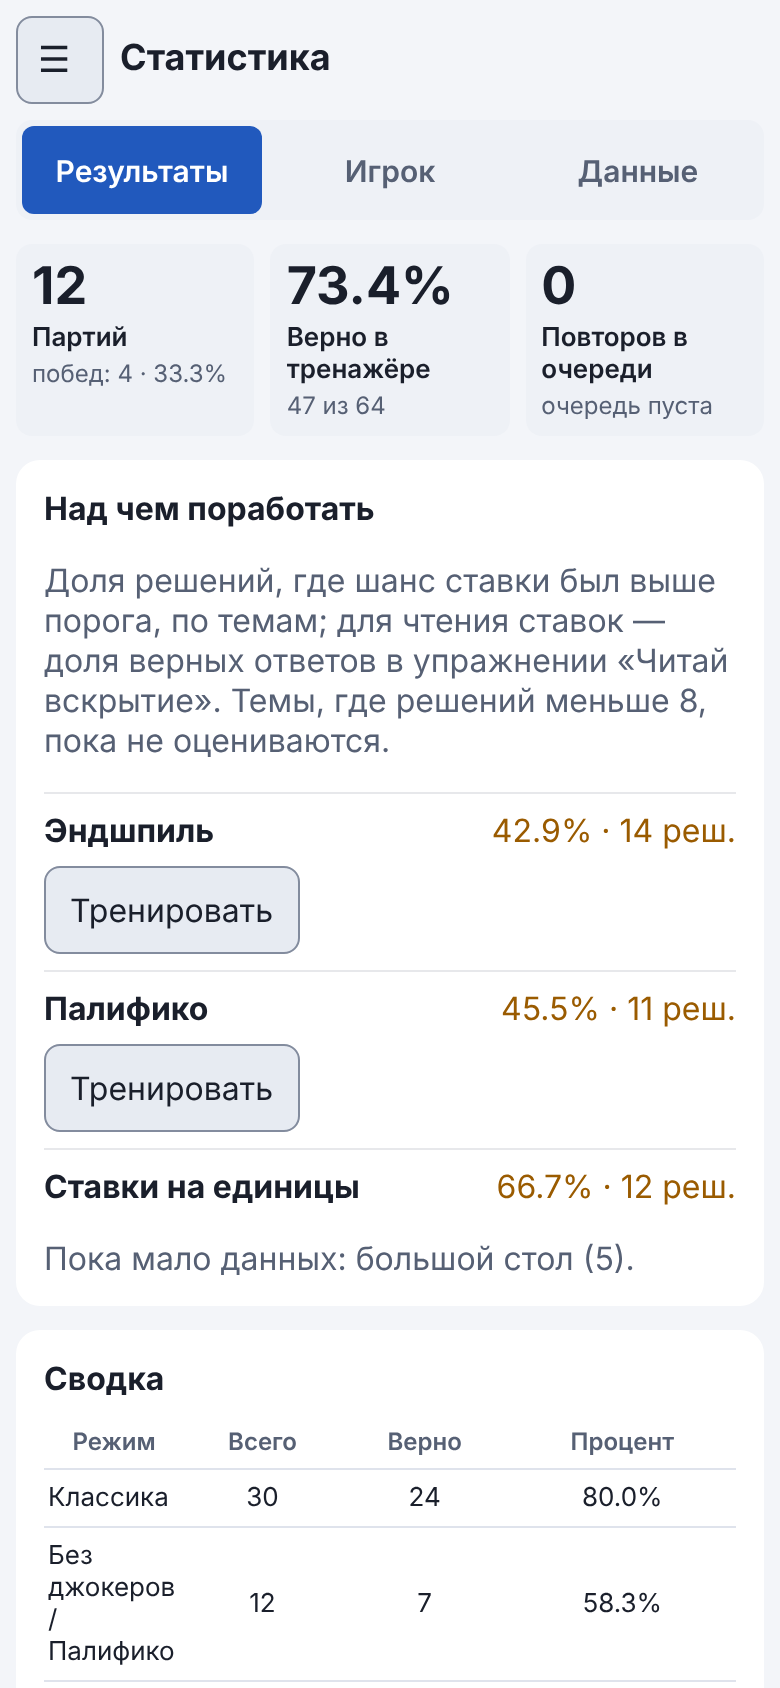
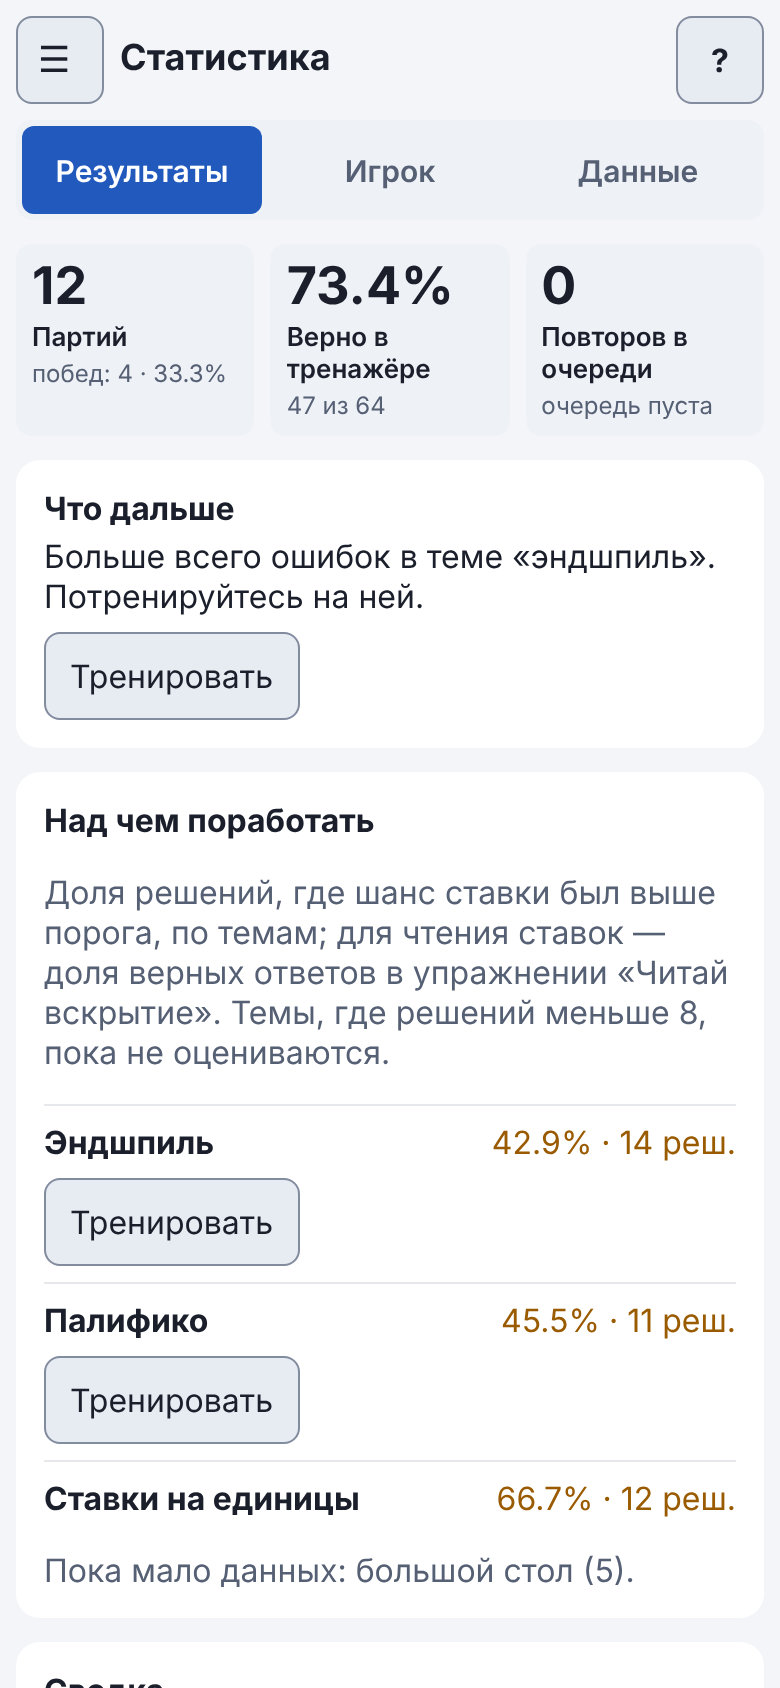
W2-07: блок «Что дальше» в «Статистике» с одной рекомендацией

diff --git a/tests/next_step.test.js b/tests/next_step.test.js
@@ -1,0 +1,72 @@
+import { describe, it } from 'node:test';
+import assert from 'node:assert/strict';
+import { readFileSync } from 'node:fs';
+import { nextStep, NEXT_TITLE } from '../src/next_step.js';
+import { TRAIN_MODE } from '../src/weak_spots.js';
+
+const root = new URL('../', import.meta.url);
+const BANNED = /обманщик|врёт|блефует/i;
+const games = (n) => ({ totalGames: n, totalWins: 0, n: 0, good: 0, byTag: {} });
+const item = { mode: 'classic', n: 12, h: [1], f: 3, q: 4, streak: 0 };
+
+describe('«Что дальше»: одна рекомендация', () => {
+  it('очередь повторов важнее всего', () => {
+    const r = nextStep({ stats: { ...games(9), byTag: { endgame: { n: 10, good: 2 } } }, games: [], queue: [item, item] });
+    assert.equal(r.id, 'queue');
+    assert.match(r.text, /ситуаций: 2/);
+    assert.deepEqual(r.action, { label: 'Открыть Тренажёр', tab: 'train' });
+  });
+  it('слабая тема с режимом: кнопка «Тренировать» ведёт в этот режим', () => {
+    const r = nextStep({ stats: { ...games(9), byTag: { endgame: { n: 10, good: 2 } } }, games: [], queue: [] });
+    assert.equal(r.id, 'weak');
+    assert.match(r.text, /«.+»/);
+    assert.deepEqual(r.action, { label: 'Тренировать', train: TRAIN_MODE.endgame });
+  });
+  it('из нескольких слабых тем берётся самая слабая', () => {
+    const r = nextStep({ stats: { ...games(9), byTag: { endgame: { n: 10, good: 6 }, lastDie: { n: 10, good: 1 } } }, queue: [] });
+    assert.equal(r.action.train, TRAIN_MODE.lastDie);
+  });
+  it('мало партий: сколько ещё нужно до процента побед', () => {
+    const r = nextStep({ stats: games(2), games: [], queue: [] });
+    assert.equal(r.id, 'games');
+    assert.match(r.text, /Сыграйте ещё партий: 3/);
+    assert.deepEqual(r.action, { label: 'Играть', tab: 'game' });
+    assert.match(nextStep({ stats: games(0), queue: [] }).text, /Сыграйте партию/);
+  });
+  it('партий достаточно, «Читай вскрытие» не пробовали — предлагаем упражнения', () => {
+    const r = nextStep({ stats: games(6), queue: [] });
+    assert.equal(r.id, 'read');
+    assert.deepEqual(r.action, { label: 'Открыть Упражнения', tab: 'drill' });
+  });
+  it('всё пробовано, слабых мест нет — сыграть партию', () => {
+    const r = nextStep({ stats: { ...games(6), byTag: { read: { n: 10, good: 10 } } }, queue: [] });
+    assert.equal(r.id, 'play');
+    assert.equal(r.action.tab, 'game');
+  });
+  it('мусор вместо данных не ломает: как у новичка', () => {
+    for (const v of [undefined, {}, { stats: null }, { stats: 5, games: 'x', queue: 7 }]) {
+      const r = nextStep(v);
+      assert.equal(r.id, 'games');
+      assert.ok(r.text && r.action.label);
+    }
+  });
+  it('тексты без запрещённых слов, у действия либо вкладка, либо режим', () => {
+    const cases = [
+      { stats: games(0) }, { stats: games(2) }, { stats: games(6) },
+      { stats: { ...games(6), byTag: { read: { n: 9, good: 9 } } } },
+      { stats: { ...games(9), byTag: { ladder: { n: 10, good: 3 } } } }, { queue: [item] },
+    ];
+    for (const c of cases) {
+      const r = nextStep(c);
+      assert.doesNotMatch(r.text, BANNED);
+      assert.ok(Boolean(r.action.tab) !== Boolean(r.action.train), r.id);
+    }
+    assert.equal(NEXT_TITLE, 'Что дальше');
+  });
+  it('в index.html есть карточка перед «Над чем поработать», руководство описывает блок', () => {
+    const html = readFileSync(new URL('index.html', root), 'utf8');
+    assert.ok(html.indexOf('id="stNext"') > 0 && html.indexOf('id="stNext"') < html.indexOf('id="stWeak"'));
+    const g = readFileSync(new URL('docs/guide/stats.html', root), 'utf8').replace(/<[^>]+>/g, ' ');
+    assert.ok(g.includes('«Что дальше»'));
+  });
+});

diff --git a/src/next_step.js b/src/next_step.js
@@ -1,0 +1,60 @@
+// src/next_step.js — блок «Что дальше» в «Статистике»: одна рекомендация по уже накопленным данным ← чистая логика (без DOM).
+// Новых данных не собирает: берёт профиль, историю партий и очередь повторов.
+
+import { weakSpots } from './weak_spots.js';
+import { MIN_GAMES_FOR_RATE, summarize } from './stats_summary.js';
+
+export const NEXT_TITLE = 'Что дальше';
+
+/**
+ * Рекомендация одна, по порядку важности:
+ *  1. есть очередь повторов — решить её в Тренажёре;
+ *  2. есть слабая тема — потренировать её (если у темы есть режим) или открыть Тренажёр;
+ *  3. сыграно меньше партий, чем нужно для процента побед — сыграть ещё;
+ *  4. «Читай вскрытие» ещё не пробовали — открыть упражнения;
+ *  5. иначе — сыграть партию.
+ * @param {{stats?: object, games?: any[], queue?: any[]}} src
+ * @returns {{id: string, text: string, action: {label: string, tab?: string, train?: string}}}
+ */
+export function nextStep({ stats, games, queue } = {}) {
+  const sum = summarize({ stats, games, queue });
+  if (sum.queue > 0) {
+    return {
+      id: 'queue',
+      text: `В очереди повторов ситуаций: ${sum.queue}. Решите их в Тренажёре: каждая уйдёт после двух успешных повторов подряд.`,
+      action: { label: 'Открыть Тренажёр', tab: 'train' },
+    };
+  }
+  const { weak } = weakSpots(stats?.byTag);
+  if (weak.length) {
+    const w = weak[0];
+    return {
+      id: 'weak',
+      text: `Больше всего ошибок в теме «${w.label}». Потренируйтесь на ней.`,
+      action: w.mode ? { label: 'Тренировать', train: w.mode } : { label: 'Открыть Тренажёр', tab: 'train' },
+    };
+  }
+  if (sum.games.total < MIN_GAMES_FOR_RATE) {
+    const left = MIN_GAMES_FOR_RATE - sum.games.total;
+    return {
+      id: 'games',
+      text: sum.games.total === 0
+        ? `Сыграйте партию: после ${MIN_GAMES_FOR_RATE} партий появится процент побед.`
+        : `Сыграйте ещё партий: ${left}. После ${MIN_GAMES_FOR_RATE} партий появится процент побед.`,
+      action: { label: 'Играть', tab: 'game' },
+    };
+  }
+  const read = stats?.byTag?.read;
+  if (!read || !Number.isInteger(read.n) || read.n === 0) {
+    return {
+      id: 'read',
+      text: 'Попробуйте упражнение «Читай вскрытие»: оно учит замечать, какие цифры называли соперники.',
+      action: { label: 'Открыть Упражнения', tab: 'drill' },
+    };
+  }
+  return {
+    id: 'play',
+    text: 'Хороший темп. Сыграйте ещё партию и сравните результаты.',
+    action: { label: 'Играть', tab: 'game' },
+  };
+}

diff --git a/docs/guide/stats.html b/docs/guide/stats.html
@@ -27,6 +27,7 @@
     <p>Эта часть открывается по умолчанию.</p>
     <ul>
       <li><strong>Итоги крупно:</strong> сколько партий сыграно (и побед), доля верных решений в Тренажёре (сколько верно из скольких) и сколько ситуаций ждёт повтора. Пока данных мало, вместо процента стоит «мало данных»: процент по режиму считается от 8 решений, по партиям — от 5.</li>
+      <li><strong>«Что дальше»:</strong> одна короткая рекомендация по вашим результатам с кнопкой действия. Сначала предлагается решить очередь повторов в Тренажёре, потом потренировать самую слабую тему, затем сыграть недостающие партии до процента побед и попробовать «Читай вскрытие». Новых данных блок не собирает: он только читает то, что уже есть.</li>
       <li><strong>«Над чем поработать»:</strong> до трёх тем, где доля решений с шансом ставки выше порога самая низкая (эндшпиль, последний кубик, Палифико, единицы, большой стол, проверки, повышения), а также «чтение ставок по вскрытию» (упражнение «Читай вскрытие») и «торги с несколькими соперниками» (режим «Лестница ставок»): для них считается доля верных ответов. Рядом число решений или ответов. Темы, где их меньше 8, пока не оцениваются и перечислены отдельно. У тем с подходящим режимом есть кнопка <strong>«Тренировать»</strong>: она открывает <a href="trainer.html">Тренажёр</a> в этом режиме (для чтения ставок открывается упражнение).</li>
       <li><strong>Сводка по режимам Тренажёра</strong> и <strong>список партий</strong>: одна строка на партию («19.10 · победа · 4 игрока · 19 раундов · 15 решений»). Показаны последние 10, остальные открываются кнопкой «Показать все» (всего хранится 200).</li>
       <li>Если играть ещё не начинали, вместо таблиц с нулями вы увидите подсказку и кнопки «Сыграть партию» и «Открыть тренажёр».</li>

diff --git a/tests/e2e/stats.spec.js b/tests/e2e/stats.spec.js
@@ -324,3 +324,47 @@ test.describe('«Результаты»: список партий', () => {
     expect(b.height).toBeGreaterThanOrEqual(44);
   });
 });
+
+test.describe('Статистика: «Что дальше»', () => {
+  const setProfile = (page, p, queue) => page.evaluate(([prof, q]) => {
+    localStorage.setItem('perudo.userProfile', JSON.stringify(prof));
+    if (q) localStorage.setItem('perudo.trainingQueue', JSON.stringify(q));
+  }, [p, queue]);
+  const base = { n: 0, good: 0, totalGames: 2, totalWins: 1, byMode: {}, drill: { A: { n: 0, good: 0 }, B: { n: 0, good: 0 } } };
+
+  test.beforeEach(async ({ page }) => {
+    await page.goto('/');
+    await page.evaluate(() => localStorage.clear());
+  });
+
+  test('мало партий: рекомендация сыграть, кнопка ведёт в «Партию»', async ({ page }) => {
+    await setProfile(page, base);
+    await page.reload();
+    await goTab(page, 'stats');
+    const card = page.locator('#stNext');
+    await expect(card).toContainText('Что дальше');
+    await expect(card).toContainText('Сыграйте ещё партий: 3');
+    await expect(card.locator('button')).toHaveCount(1);
+    await card.locator('button').click();
+    await expect(page.locator('#game')).toBeVisible();
+  });
+
+  test('очередь повторов: рекомендация решить её, кнопка открывает Тренажёр', async ({ page }) => {
+    await setProfile(page, base, [{ mode: 'classic', n: 12, h: [1, 3], f: 3, q: 5, streak: 0 }]);
+    await page.reload();
+    await goTab(page, 'stats');
+    await expect(page.locator('#stNext')).toContainText('В очереди повторов ситуаций: 1');
+    await page.locator('#stNext button').click();
+    await expect(page.locator('#train')).toBeVisible();
+  });
+
+  test('слабая тема: рекомендация и «Тренировать» открывают режим темы', async ({ page }) => {
+    await setProfile(page, { ...base, totalGames: 9, byTag: { endgame: { n: 10, good: 2 } } });
+    await page.reload();
+    await goTab(page, 'stats');
+    await expect(page.locator('#stNext')).toContainText('Больше всего ошибок в теме');
+    await page.locator('#stNext button').click();
+    await expect(page.locator('#train')).toBeVisible();
+    await expect(page.locator('#tMode')).toHaveValue('endgame');
+  });
+});

diff --git a/src/ui/stats.js b/src/ui/stats.js
@@ -13,6 +13,7 @@ import { setupStatsTabs, showStatsTab } from './stats_tabs.js';
 import { visibleGames, formatGameWhen, formatGameMeta, GAMES_SHOWN } from '../games_list.js';
 import { summarize, rateOf, isEmptyStats, MIN_DECISIONS_FOR_RATE, MIN_GAMES_FOR_RATE } from '../stats_summary.js';
 import { markBackupExported } from './backup_reminder.js';
+import { renderNextStep, setupNextStep } from './next_step.js';
 import { readPersisted, describePersistence } from '../persistence.js';
 import { REMIND_FIRST } from '../backup_reminder.js';
 
@@ -85,6 +86,7 @@ export function renderStats() {
   if ($('#stFilled')) $('#stFilled').hidden = empty;
   renderTiles(summarize({ stats, games: history, queue }));
 
+  renderNextStep({ stats, games: history, queue });
   renderWeakSpots(stats.byTag);
   renderPlayerCard();
   renderCloudCard();
@@ -128,6 +130,7 @@ export function setupStats({ onReset, onTrain, onPlayerChange } = {}) {
   });
   document.addEventListener('perudo:cloud-render', renderPersistence);   // вход и выход меняют совет про сохранность
   setupWeakSpots(onTrain);
+  setupNextStep(onTrain);
   setupPlayerCard({ onChange: onPlayerChange });
   const msg = (text, cls = 'muted') => {
     const el = $('#stBackupMsg');

diff --git a/src/ui/next_step.js b/src/ui/next_step.js
@@ -1,0 +1,28 @@
+// src/ui/next_step.js — блок «Что дальше» во вкладке «Статистика».
+
+import { nextStep, NEXT_TITLE } from '../next_step.js';
+import { escapeHtml } from '../table.js';
+import { $ } from './common.js';
+
+/** HTML блока: заголовок, одна рекомендация и кнопка действия. */
+export function nextStepHtml(src) {
+  const n = nextStep(src);
+  const attr = n.action.train ? `data-next-train="${n.action.train}"` : `data-next-tab="${n.action.tab}"`;
+  return `<b>${NEXT_TITLE}</b><p class="next-text">${escapeHtml(n.text)}</p>` +
+    `<button type="button" class="next-act" ${attr}>${escapeHtml(n.action.label)}</button>`;
+}
+
+export function renderNextStep(src) {
+  const el = $('#stNext');
+  if (el) el.innerHTML = nextStepHtml(src);
+}
+
+/** onTrain(mode) — как у «Над чем поработать». */
+export function setupNextStep(onTrain) {
+  $('#stNext')?.addEventListener('click', (e) => {
+    const train = e.target.closest('[data-next-train]')?.dataset.nextTrain;
+    if (train) { onTrain?.(train); return; }
+    const tab = e.target.closest('[data-next-tab]')?.dataset.nextTab;
+    if (tab) $(`.tab-btn[data-t="${tab}"]`)?.click();
+  });
+}

diff --git a/src/css/learn.css b/src/css/learn.css
@@ -654,6 +654,20 @@
   padding: 6px 4px;
 }
 
+/* Статистика: «Что дальше» */
+.next-card {
+  margin-bottom: var(--space-3);
+}
+
+.next-text {
+  margin: var(--space-1) 0 var(--space-2);
+}
+
+.next-act {
+  min-height: var(--tap);
+  font-size: 16px;
+}
+
 /* Статистика: «Над чем поработать» */
 .weak-card {
   margin-bottom: var(--space-3);

diff --git a/index.html b/index.html
@@ -770,6 +770,7 @@
           </div>
           <div id="stFilled">
             <div id="stTiles" class="stat-tiles"></div>
+            <div id="stNext" class="card next-card"></div>
             <div id="stWeak" class="card weak-card"></div>
             <div class="card">
               <b>Сводка</b>

diff --git a/docs/dev/roadmap.md b/docs/dev/roadmap.md
@@ -4,7 +4,7 @@
 
 **Как вести файл.** Пункт выполнен, когда его патч применён и проверен: в строке меняется `[ ]` на `[x]` и в поле «Патч» ставится номер. Отметку делает тот же патч, который закрывает пункт. Тест `tests/roadmap.test.js` следит, чтобы ID не повторялись, у выполненных был номер патча, а счётчик ниже совпадал со списком.
 
-Выполнено: 17 из 25
+Выполнено: 18 из 25
 
 Формат строки: `- [ ] **ID** · размер (S, M, L) · название (замечания из отчёта) — критерий готовности. Патч: номер или —`.
 
@@ -32,7 +32,7 @@
 - [x] **W2-04** · M · Предложение облака после первого результата (UX-01) — до первой партии или тренировки окна выбора нет. Патч: 141
 - [x] **W2-05** · M · Видимый прогресс повторов (UX-07) — у ситуации указаны причина повтора и «1 из 2 успешных повторов». Патч: 142
 - [x] **W2-06** · M · Упражнения со снятием подсказок (UX-08) — при первом заходе памятка раскрыта; пример, затем частично заполненное решение, затем самостоятельное. Патч: 143
-- [ ] **W2-07** · M · Блок «Что дальше» в «Статистике» — одна короткая рекомендация по результатам; без новых данных. Патч: —
+- [x] **W2-07** · M · Блок «Что дальше» в «Статистике» — одна короткая рекомендация по результатам; без новых данных. Патч: 144
 
 ## Волна 3. Методические расширения
 

diff --git a/docs/dev/architecture.md b/docs/dev/architecture.md
@@ -57,6 +57,7 @@ src/
 ├── first_run.js        карточка «Впервые здесь?»: шаги и условие показа ← чистая логика
 ├── repeat_text.js      повторы в Тренажёре: причина и «N из 2 успешных повторов» ← чистая логика
 ├── drill_steps.js      ступени «Упражнений»: пример → подставленное число → самостоятельно ← чистая логика
+├── next_step.js        блок «Что дальше» в «Статистике»: одна рекомендация по данным ← чистая логика
 ├── trainer_text.js  подписи вердикта в Тренажёре: «по шансу» и оговорка модели ← чистая логика
 ├── calc_text.js     пояснение к проценту в калькуляторе: шанс ставки и шанс проверки ← чистая логика
 ├── bot_pace.js      темп ходов ботов: задержка или «Пошагово» (ход по кнопке) ← чистая логика
